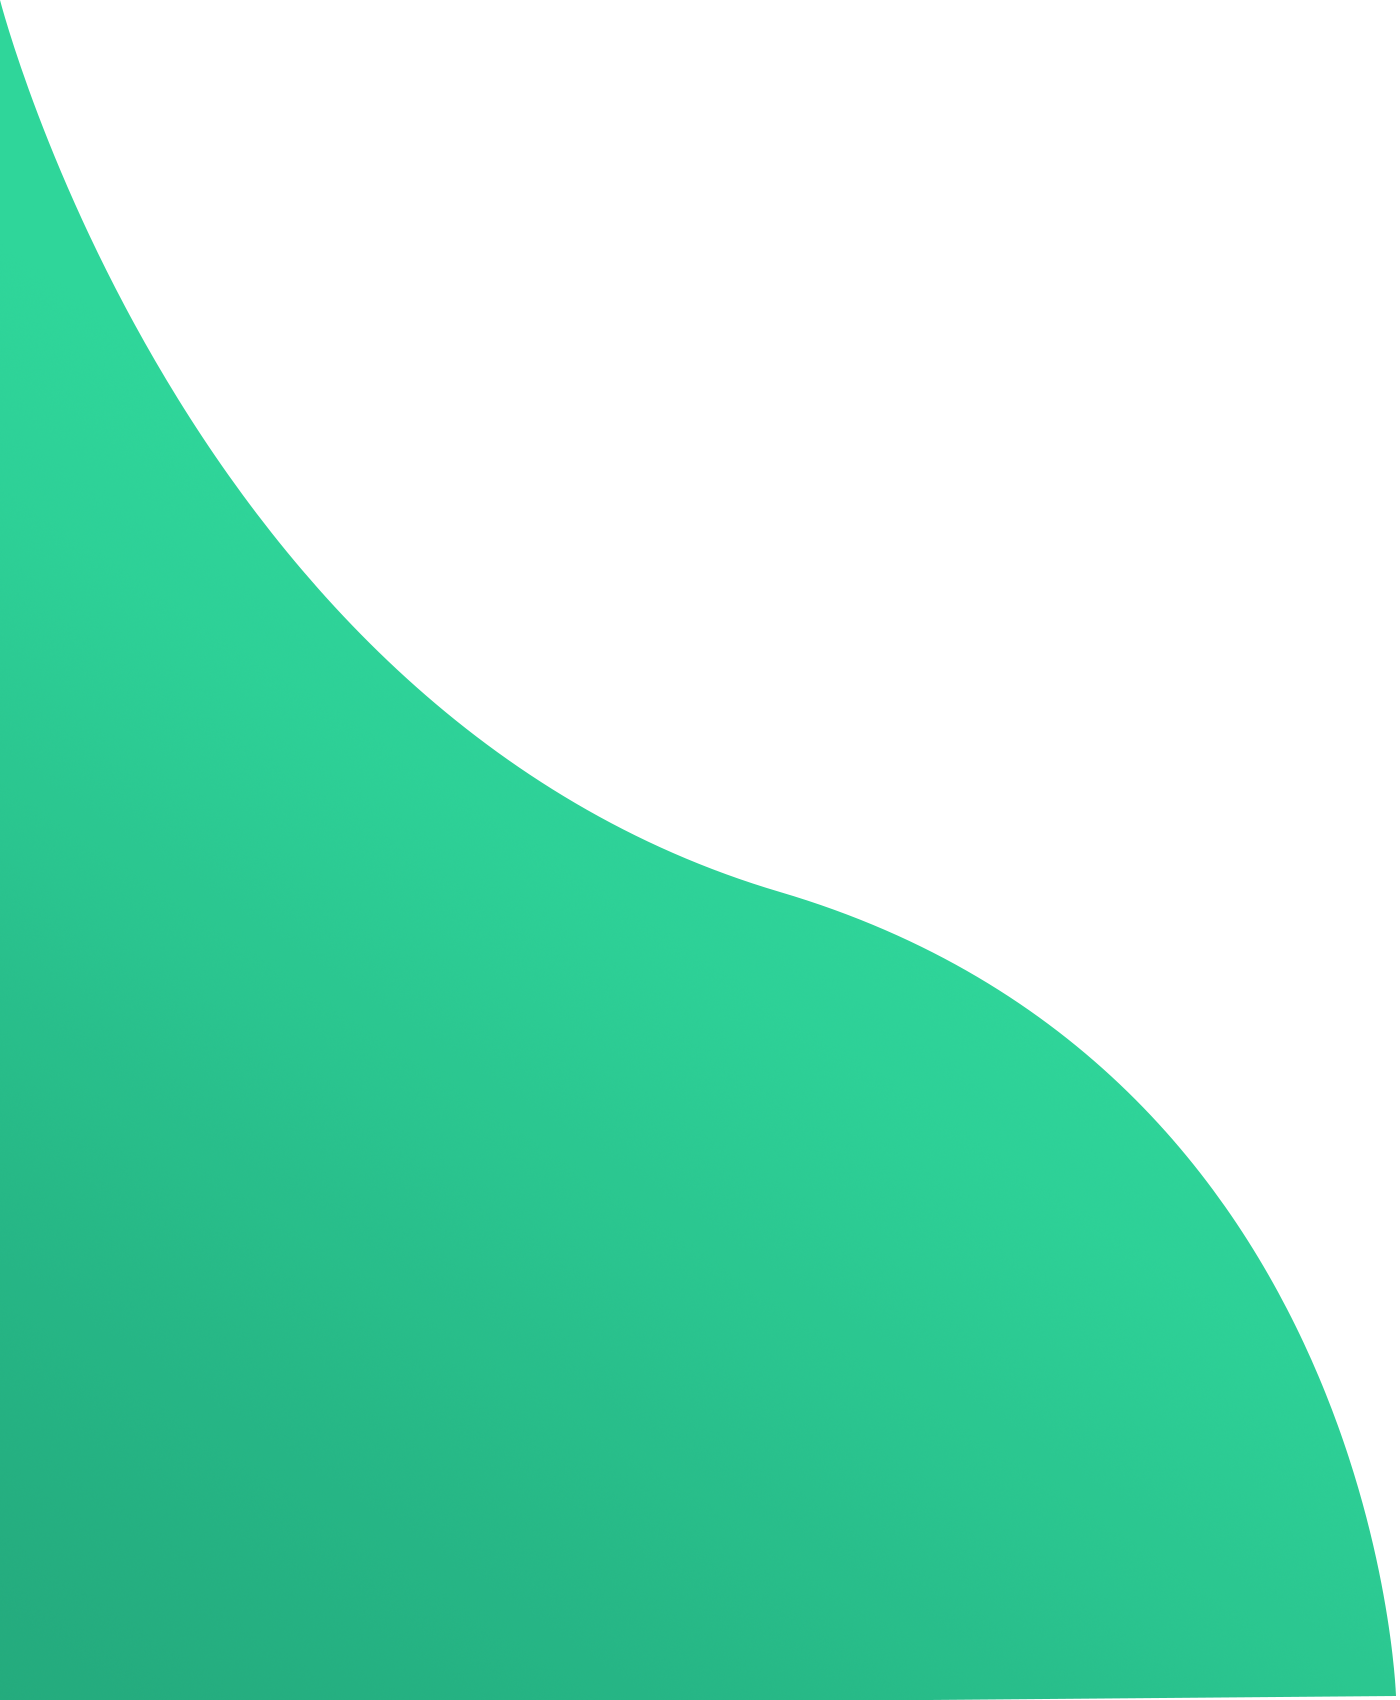
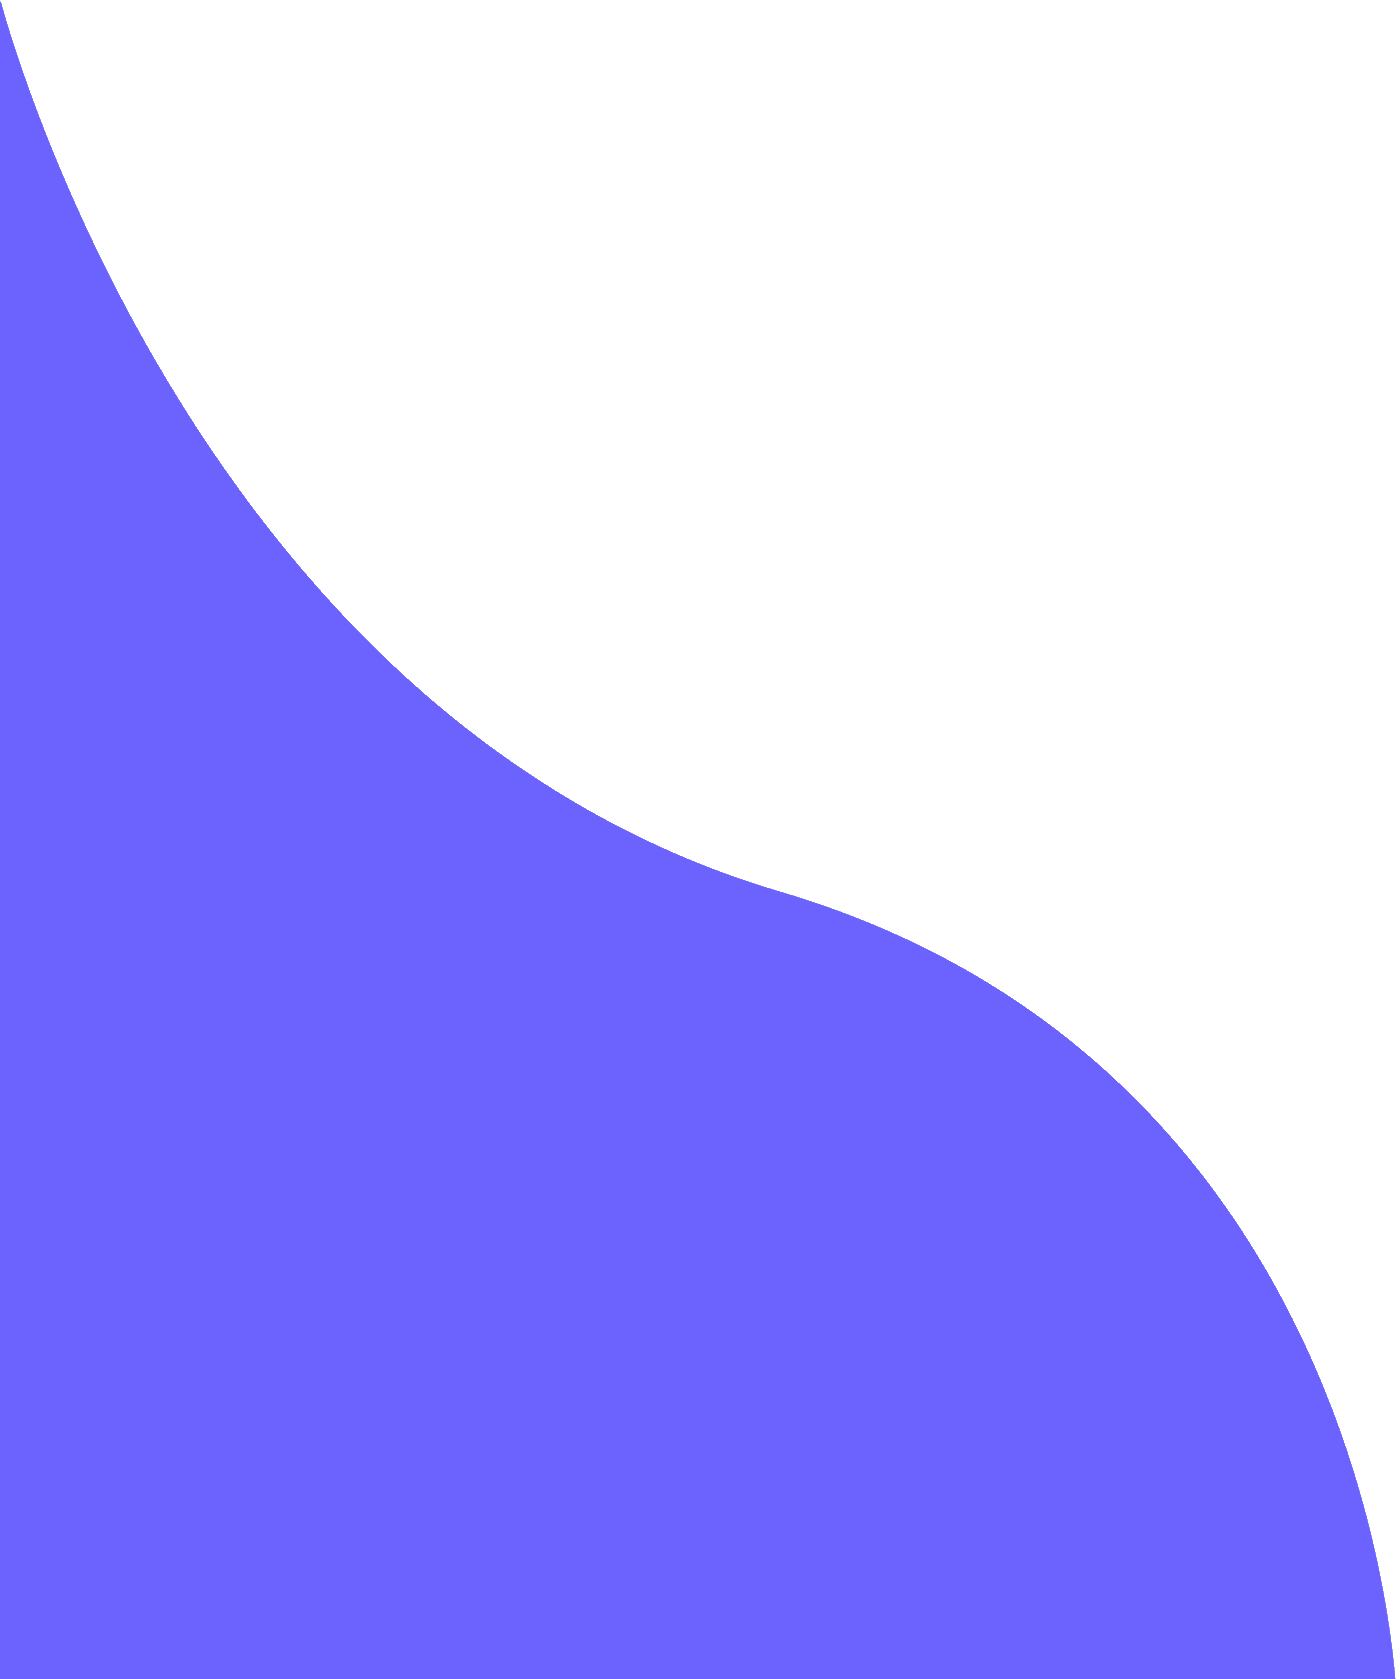
Completed Register Login UI Changes

diff --git a/src/pages/Login.js b/src/pages/Login.js
@@ -4,7 +4,7 @@ import { loginUser } from "../redux/actions/userActions";
 import { Link } from "react-router-dom";
 import "./Login.css";
 import backgroundImage from "../assets/bg.svg";
-import avatarImage from "../assets/avatar.svg";
+import avatarImage from "../assets/avatar1.svg";
 import wave from "../assets/wave.png";
 
 const LoginForm = () => {
@@ -46,7 +46,7 @@ const LoginForm = () => {
         </div>
         <div className="login-content">
           <form onSubmit={handleSubmit}>
-            <img src={avatarImage} alt="avatar" />
+            <img className="bg-img" src={avatarImage} alt="avatar" />
             <h2 className="title">Welcome</h2>
             <div className="input-div one">
               <div className="i">

diff --git a/src/pages/Login.css b/src/pages/Login.css
@@ -99,7 +99,7 @@
   bottom: -2px;
   width: 0%;
   height: 2px;
-  background-color: #38d39f;
+  background-color: #6C63FF;
   transition: 0.4s;
 }
 
@@ -122,7 +122,7 @@
 }
 
 .input-div.focus > .i > i {
-  color: #38d39f;
+  color: #6C63FF;
 }
 
 .input-div > div > input {
@@ -153,7 +153,7 @@ a {
 }
 
 a:hover {
-  color: #38d39f;
+  color: #6C63FF;
 }
 
 .btn {
@@ -163,7 +163,7 @@ a:hover {
   border-radius: 25px;
   outline: none;
   border: none;
-  background-image: linear-gradient(to right, #32be8f, #38d39f, #32be8f);
+  background-image: linear-gradient(to right, #453fc6, #6C63FF, #4b44c8);
   background-size: 200%;
   font-size: 1.2rem;
   color: #fff;
